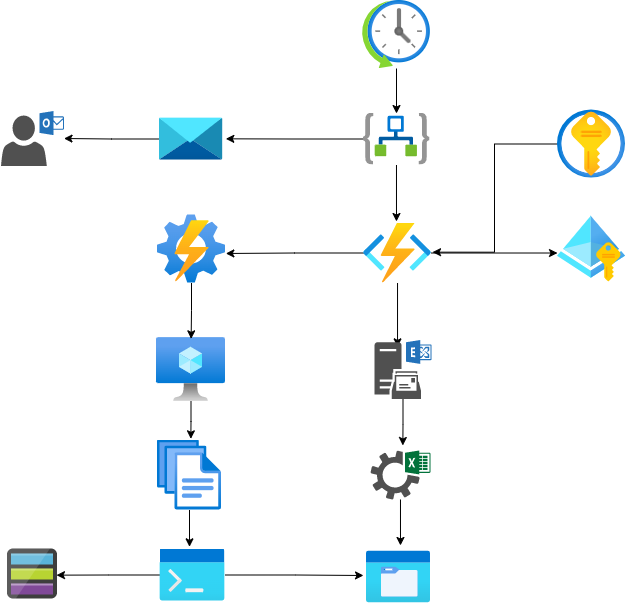
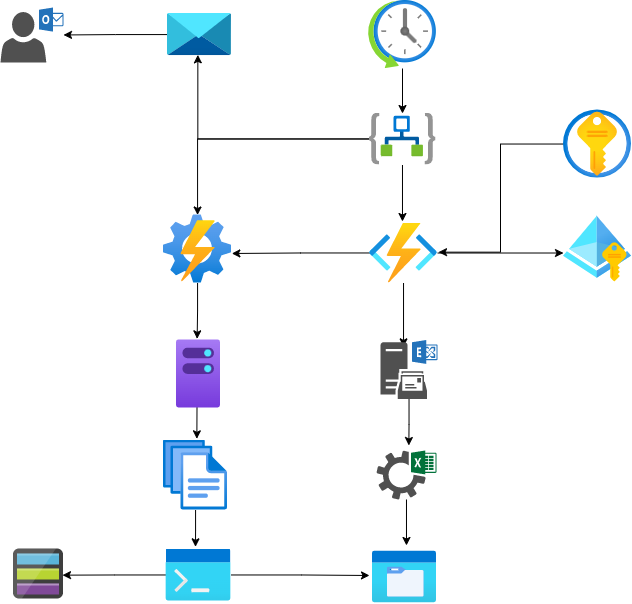
Commit

diff --git a/azurelms/__init__.py b/azurelms/__init__.py
@@ -137,6 +137,7 @@ async def main(req: func.HttpRequest) -> func.HttpResponse:
             )
             try:
                 blob_client.upload_blob(df.to_csv(index=False), overwrite=True)
+                
                 logging.info("******* Finishing main function with status 200 *******")
                 return func.HttpResponse("Success", status_code=200)
 

diff --git a/README.md b/README.md
@@ -23,8 +23,8 @@ Included in this report is a step by step detailed guide around where to look fo
 1. The function will auth via managed identity against Azure AD and retrieves API credentials from Azure Keyvault that is secured under T0 subscription.
 1. SPN has permission to retrieve an attachment from a given mailbox.
 1. The function will then retrieve the attachment from the mailbox and save it to a storage account.
-1. The function will invoke an automation account runbook via a webhook post call.
-1. Hybridworker will excute a powershell and mount a storage on on-prem server.
+1. The Logicapp will invoke an automation account runbook via a webhook HTTP post call.
+1. Azure Arc Hybridworker will excute a powershell and mount a storage on on-prem server.
 1. Powershell will then copy the file from the storage account to the mounted drive via Azcopy.
 1. Logic app will send the end user a notification of workflow status.
 
